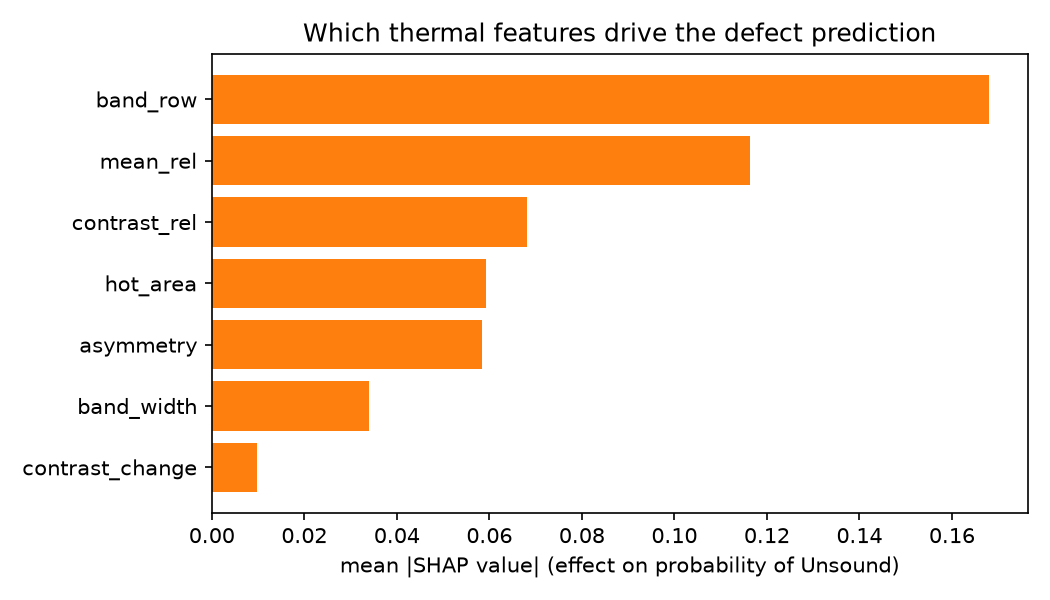
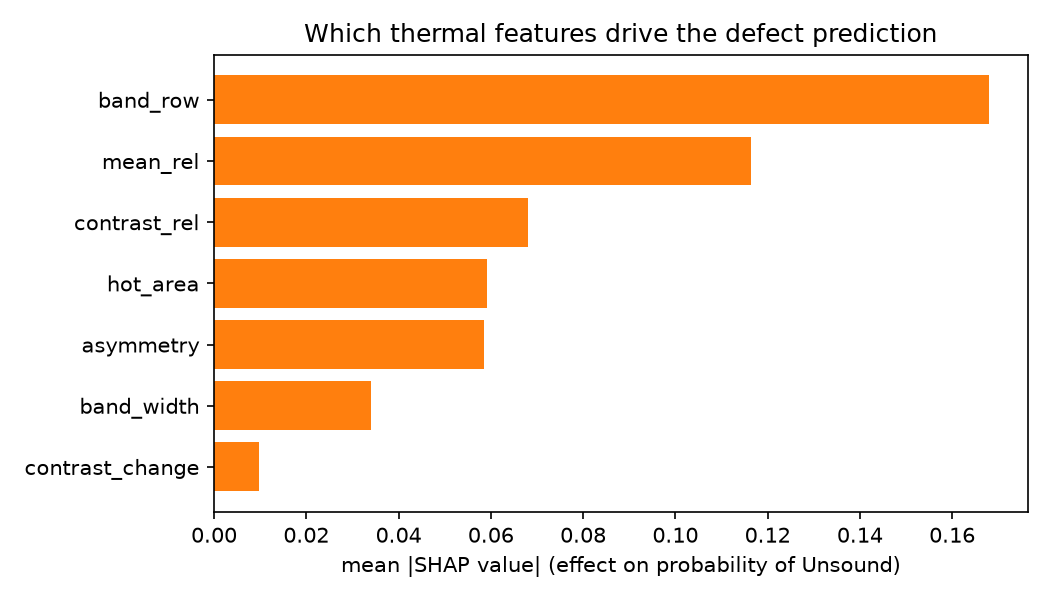
laser-defect-inspection-ml v1.0: pipeline test, CI, streamlit dashboard, README

Changed region(s): [[0.0305, 0.09, 0.9752, 0.96], [0.2743, 0.03, 0.8838, 0.09]]

diff --git a/app.py b/app.py
@@ -1,0 +1,60 @@
+# app.py
+# Phase 8: my interactive dashboard. I start it from the project folder with:
+#     streamlit run app.py
+# It opens in my browser. I pick a weld and see, frame by frame, the model's
+# probability of a defect next to the true label and the thermal image.
+
+import joblib
+import matplotlib.pyplot as plt
+import streamlit as st
+
+from laser_defect.dashboard import first_alarm, predict_weld, weld_summary
+from laser_defect.data import load_dataset
+from laser_defect.features import load_features
+from laser_defect.model import MODEL_FILE
+
+st.set_page_config(page_title="Laser weld defect inspection", layout="wide")
+st.title("Laser weld defect inspection")
+st.caption("Random Forest on LWIR thermal frames (Walther et al. 2025, CC BY 4.0). "
+           "The model only uses the current frame, earlier frames and the weld start.")
+
+
+@st.cache_resource      # I load the model and data only once, not on every click
+def load_all():
+    X, table = load_dataset()
+    return joblib.load(MODEL_FILE), load_features(), X, table
+
+
+bundle, df, X, table = load_all()
+weld = st.sidebar.selectbox("Weld", sorted(df["weld"].unique()))
+w = predict_weld(bundle, df, weld)
+
+# Top row: four simple numbers about this weld.
+s = weld_summary(w)
+alarm, truth = first_alarm(w)
+c = st.columns(4)
+c[0].metric("Frames", s["frames"])
+c[1].metric("Agreement with label", f"{s['agreement']:.0%}")
+c[2].metric("First true unsound frame", truth if truth is not None else "none")
+c[3].metric("First model alarm", alarm if alarm is not None else "none")
+
+# Chart: probability of Unsound over time; the shaded area is the true unsound part.
+fig, ax = plt.subplots(figsize=(10, 3))
+ax.plot(w["frame"], w["prob_unsound"], label="model: probability of Unsound")
+ax.fill_between(w["frame"], 0, w["y"], alpha=0.2, color="red", label="true label: Unsound")
+ax.axhline(bundle["threshold"], ls="--", color="grey", label=f"threshold {bundle['threshold']}")
+ax.set_xlabel("frame (30 per second)")
+ax.set_ylim(0, 1)
+ax.legend(loc="upper left")
+st.pyplot(fig)
+
+# Thermal image of one chosen frame of this weld.
+frame = st.slider("Frame", int(w["frame"].min()), int(w["frame"].max()), int(w["frame"].min()))
+idx = table.index[(table["weld"] == weld) & (table["frame"] == frame)]
+if len(idx):
+    row = w[w["frame"] == frame].iloc[0]
+    fig2, ax2 = plt.subplots(figsize=(3, 3))
+    ax2.imshow(X[idx[0]], cmap="inferno")
+    ax2.set_axis_off()
+    st.pyplot(fig2, use_container_width=False)
+    st.write(f"True label: **{row['label']}**, model probability of Unsound: **{row['prob_unsound']:.2f}**")

diff --git a/src/laser_defect/dashboard.py b/src/laser_defect/dashboard.py
@@ -1,0 +1,32 @@
+# dashboard.py
+# Phase 8: the calculations behind my Streamlit dashboard (app.py).
+# I keep them here, not in app.py, so I can test them with pytest.
+
+import pandas as pd
+
+
+def predict_weld(bundle, df, weld):
+    # I take all frames of ONE weld, in time order, and add the model's
+    # probability of "Unsound" and its decision (using my saved threshold).
+    w = df[df["weld"] == weld].sort_values("frame").copy()
+    w["prob_unsound"] = bundle["model"].predict_proba(w[bundle["features"]].to_numpy())[:, 1]
+    w["pred"] = (w["prob_unsound"] >= bundle["threshold"]).astype(int)
+    return w
+
+
+def weld_summary(w):
+    # Simple numbers for one weld: how many frames, how many truly unsound,
+    # how many the model flagged, and how often it agreed with the label.
+    return {"frames": len(w),
+            "true_unsound": int(w["y"].sum()),
+            "flagged_unsound": int(w["pred"].sum()),
+            "agreement": float((w["pred"] == w["y"]).mean())}
+
+
+def first_alarm(w):
+    # The first frame the model flags as Unsound, and the first truly unsound frame.
+    # Comparing them tells me if the alarm comes early, on time, or late.
+    pred = w.loc[w["pred"] == 1, "frame"]
+    true = w.loc[w["y"] == 1, "frame"]
+    return (int(pred.iloc[0]) if len(pred) else None,
+            int(true.iloc[0]) if len(true) else None)

diff --git a/tests/test_pipeline.py b/tests/test_pipeline.py
@@ -1,0 +1,27 @@
+# test_pipeline.py
+# Phase 7: one end-to-end test. Fake thermal frames go through my whole chain
+# (features -> Random Forest -> SHAP) exactly as real data would.
+
+import numpy as np
+import pandas as pd
+
+from laser_defect.explain import explain
+from laser_defect.features import FEATURE_COLUMNS, build_features
+from laser_defect.model import evaluate, train_final
+
+
+def test_frames_to_explanation():
+    rng = np.random.default_rng(0)
+    frames, rows = [], []
+    for w in range(6):
+        for f in range(40):
+            y = int(f >= 25)                        # last 15 frames unsound
+            img = np.full((32, 32), 430.0) + rng.normal(0, 0.3, (32, 32))
+            img[14:18, :] += 20 if y == 0 else 8    # unsound = weaker hot band
+            frames.append(img.astype(np.float32))
+            rows.append({"weld": f"001-{w:03d}", "frame": f, "y": y})
+    df = build_features(np.stack(frames), pd.DataFrame(rows))
+    scores, _ = evaluate(df, n_folds=3, inner_folds=2)
+    assert scores["roc_auc"].mean() > 0.9
+    _, _, imp = explain(train_final(df, n_folds=3), df, n_sample=100)
+    assert set(imp["feature"]) == set(FEATURE_COLUMNS)

diff --git a/tests/test_dashboard.py b/tests/test_dashboard.py
@@ -1,0 +1,31 @@
+# test_dashboard.py
+# Phase 7/8: I test the dashboard calculations, and (if real data and the model
+# exist on this computer) that the Streamlit app starts without errors.
+
+from pathlib import Path
+
+import pytest
+
+from laser_defect.dashboard import first_alarm, predict_weld, weld_summary
+from laser_defect.model import train_final
+from tests_helpers import fake_features
+
+
+def test_weld_predictions_and_summary():
+    df = fake_features(signal=True)
+    df["label"] = df["y"].map({0: "Sound", 1: "Unsound"})
+    bundle = train_final(df, n_folds=3)
+    w = predict_weld(bundle, df, "001-000")
+    s = weld_summary(w)
+    assert s["frames"] == 20 and s["true_unsound"] == 10
+    assert s["agreement"] > 0.8
+    alarm, truth = first_alarm(w)
+    assert truth == 10 and alarm is not None
+
+
+@pytest.mark.skipif(not Path("models/defect_classifier.joblib").exists(),
+                    reason="run python -m laser_defect.model first")
+def test_app_starts_without_errors():
+    from streamlit.testing.v1 import AppTest
+    at = AppTest.from_file("../app.py", default_timeout=120).run()
+    assert not at.exception

diff --git a/tests/test_download.py b/tests/test_download.py
@@ -12,7 +12,7 @@ from laser_defect.download import check_size, extract_zip
 
 def test_package_imports():
     # If this passes, my package is installed correctly.
-    assert laser_defect.__version__ == "0.7.0"
+    assert laser_defect.__version__ == "1.0.0"
 
 
 def test_extract_zip_creates_dataset_folder(tmp_path):

diff --git a/src/laser_defect/__init__.py b/src/laser_defect/__init__.py
@@ -3,4 +3,4 @@
 # so I can write: from laser_defect.download import download_dataset
 
 # I store the version in one place so I can print it to check my install.
-__version__ = "0.7.0"
+__version__ = "1.0.0"

diff --git a/README.md b/README.md
@@ -1,6 +1,30 @@
 # Laser Weld Defect Inspection with Machine Learning
 
-**Status: in active development (phases 0–6 of 10 complete).** This README is updated as each phase is finished. Results are only reported once they exist.
+![tests](https://github.com/deeppunj/portfolio-DS-ML-AI/actions/workflows/tests.yml/badge.svg)
+
+**Status: complete (v1.0).** An end-to-end, tested machine-learning pipeline that detects laser-weld defects from thermal camera frames.
+
+## Summary
+- **Data:** 16,362 labelled LWIR frames (32×32, 30 Hz) from 97 real laser beam welds (Walther et al. 2025, CC BY 4.0).
+- **Model:** Random Forest on 7 physics-motivated thermal features, computed without labels or future frames.
+- **Evaluation:** nested cross-validation split **by weld**, compared with a position-only leakage baseline.
+- **Result:** ROC AUC **0.974 ± 0.007**, balanced accuracy **0.927**, 91% of unsound frames detected at 5.6% false alarms.
+- **Explanation:** SHAP shows the model relies on heat, hot-spot strength and melt-zone size.
+- **Tools:** Python, pandas, scikit-learn, SHAP, Streamlit, pytest (31 tests), GitHub Actions.
+
+## Dashboard
+```bash
+python -m laser_defect.model    # trains and saves the model (once)
+streamlit run app.py            # opens the dashboard in the browser
+```
+Pick a weld to see the model's defect probability over time against the true label, the first alarm versus the first truly unsound frame, and any thermal frame.
+
+## Limitations
+- Labels follow time inside each weld (Beginning → Sound → Unsound in 93 of 97 welds), so part of the problem is "when does the weld change". The position-only baseline makes this visible.
+- The top SHAP feature (hot-band position) may partly reflect drift over time rather than the defect itself.
+- Frame-level labels: errors concentrate at the sound/unsound transition, where the label boundary is not visible in a single frame.
+- One dataset and one welding setup; performance on other materials, speeds or cameras is untested.
+- No deployment container (out of scope).
 
 ## Goal
 Detect when a laser beam weld turns from **sound** to **unsound** (a discontinuity forms as the metal sheets move apart), using in-process sensor data from real welding experiments, and explain which physical signals drive the prediction.
@@ -101,9 +125,9 @@ The model relies on physically meaningful signals (less heat, weaker and smaller
 | 4 | Baseline model, split by weld to avoid leakage | Done |
 | 5 | Random Forest, cross-validation, threshold choice | Done |
 | 6 | Model explanation with SHAP | Done |
-| 7 | Test suite for data, features and pipeline | Next |
-| 8 | Streamlit dashboard | Planned |
-| 9 | Final results, reproducibility, limitations | Planned |
+| 7 | Test suite for data, features and pipeline | Done |
+| 8 | Streamlit dashboard | Done |
+| 9 | Final results, reproducibility, limitations | Done |
 
 ## Run it
 ```bash
